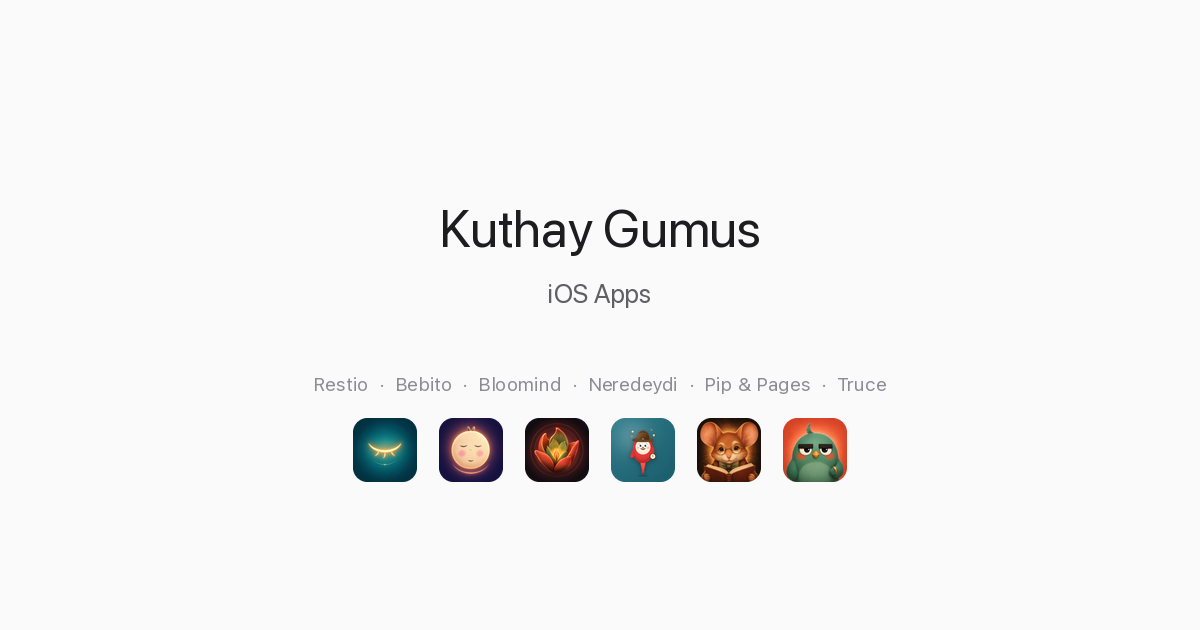
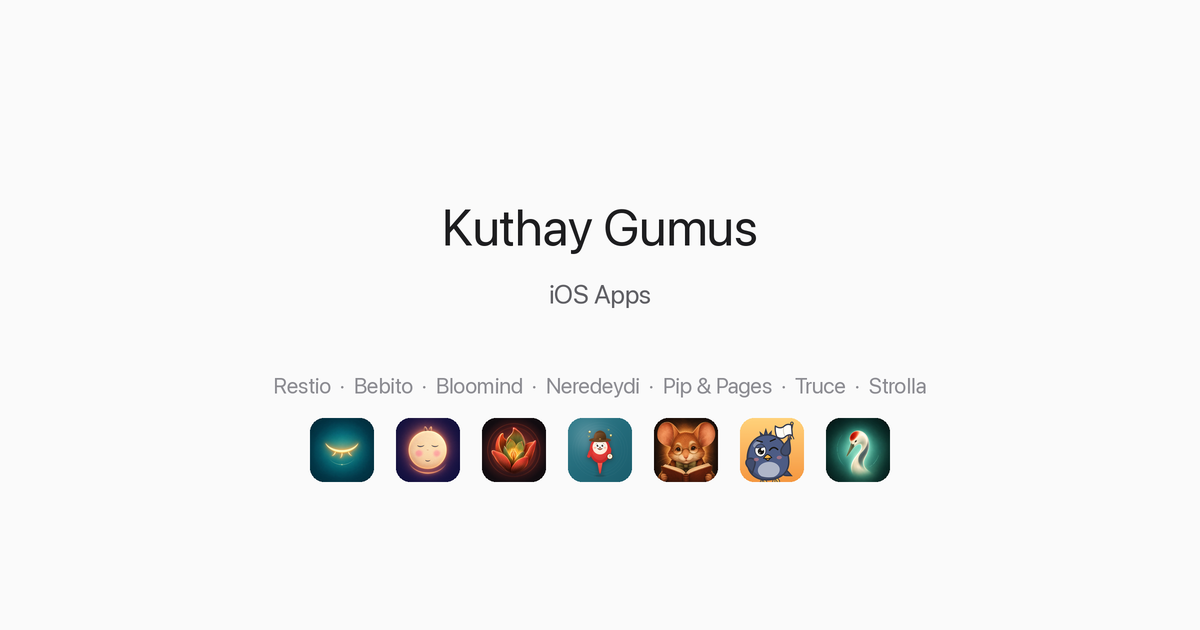
site: home page and share card show all seven live apps
Strolla went live 2026-10-01 with no card on the home page; the share card
showed six apps and Truce's pre-2.0 icon. Truce's card now describes 2.0
(both counters, optional Bicky Club, iPhone only) and every store link uses
the canonical slug. A lone seventh card is centred instead of hugging left.

diff --git a/index.html b/index.html
@@ -171,6 +171,10 @@
         footer { margin-top: auto; }
 
         /* ---- Responsive ---- */
+        @media (min-width: 761px) {
+            /* An odd card count leaves the last card alone on its row: centre it instead of hugging the left. */
+            .app-grid > .app-card:last-child:nth-child(odd) { grid-column: 1 / -1; justify-self: center; width: calc(50% - 10px); }
+        }
         @media (max-width: 760px) {
             .app-grid { grid-template-columns: 1fr; gap: 16px; }
         }
@@ -244,7 +248,7 @@
                     </a>
                     <p class="app-description">A thoughtful baby tracker that helps parents log feedings, sleep, diapers, growth, milestones, and health &mdash; all in one place. With helpful trends, widgets, and Apple Watch support. Not a medical device or medical advice.</p>
                     <div class="app-footer">
-                        <a href="https://apps.apple.com/app/bebito-baby-tracker/id6760252824" class="app-store-badge official" aria-label="Download Bebito on the App Store"><img src="/assets/app-store-badge.svg" alt="Download on the App Store" width="120" height="40"></a>
+                        <a href="https://apps.apple.com/app/bebito-baby-newborn-tracker/id6760252824" class="app-store-badge official" aria-label="Download Bebito on the App Store"><img src="/assets/app-store-badge.svg" alt="Download on the App Store" width="120" height="40"></a>
                         <nav class="app-legal" aria-label="Legal links for Bebito">
                             <a href="/bebito/privacy/">Privacy Policy</a>
                             <a href="/bebito/terms/">Terms of Use</a>
@@ -264,7 +268,7 @@
                     </a>
                     <p class="app-description">A breathing app where every session grows a living garden. 12 guided breathing techniques, mood tracking, ambient soundscapes, and a Panic Seed exercise for stressful moments &mdash; on iPhone, iPad, and Apple Watch. A wellness app, not medical care.</p>
                     <div class="app-footer">
-                        <a href="https://apps.apple.com/app/bloomind-anxiety-breathing/id6761011858" class="app-store-badge official" aria-label="Download Bloomind on the App Store"><img src="/assets/app-store-badge.svg" alt="Download on the App Store" width="120" height="40"></a>
+                        <a href="https://apps.apple.com/app/bloomind-stop-overthinking/id6761011858" class="app-store-badge official" aria-label="Download Bloomind on the App Store"><img src="/assets/app-store-badge.svg" alt="Download on the App Store" width="120" height="40"></a>
                         <nav class="app-legal" aria-label="Legal links for Bloomind">
                             <a href="/bloomind/privacy/">Privacy Policy</a>
                             <a href="/bloomind/terms/">Terms of Use</a>
@@ -284,7 +288,7 @@
                     </a>
                     <p class="app-description">A daily geography mystery and four-mode map guess game for Türkiye and the world &mdash; with streaks, a shareable emoji tile, Lock Screen widgets, Siri shortcuts, and Game Center leaderboards.</p>
                     <div class="app-footer">
-                        <a href="https://apps.apple.com/app/neredeydi-harita-tahmin-oyunu/id6763877439" class="app-store-badge official" aria-label="Download Neredeydi on the App Store"><img src="/assets/app-store-badge.svg" alt="Download on the App Store" width="120" height="40"></a>
+                        <a href="https://apps.apple.com/app/neredeydi-geography-quiz/id6763877439" class="app-store-badge official" aria-label="Download Neredeydi on the App Store"><img src="/assets/app-store-badge.svg" alt="Download on the App Store" width="120" height="40"></a>
                         <nav class="app-legal" aria-label="Legal links for Neredeydi">
                             <a href="/neredeydi/privacy/">Privacy Policy</a>
                             <a href="/neredeydi/terms/">Terms of Use</a>
@@ -322,13 +326,33 @@
                             <div class="app-tagline">Day 1. Again.</div>
                         </div>
                     </a>
-                    <p class="app-description">A funny, private little counter for the days since you last argued with your partner &mdash; usually stuck on Day 1. Reset it and Bicky, the long-suffering lovebird, reacts with a share card worth screenshotting. Private, on-device, and free to use. On iPhone &amp; iPad.</p>
+                    <p class="app-description">Counts the days you&rsquo;ve been together and the days since you last argued &mdash; a funny, private counter with Bicky, the long-suffering lovebird, and share cards worth screenshotting. On-device and free to use, with an optional Bicky Club. On iPhone.</p>
                     <div class="app-footer">
-                        <a href="https://apps.apple.com/app/truce-days-without-a-fight/id6780033643" class="app-store-badge official" aria-label="Download Truce on the App Store"><img src="/assets/app-store-badge.svg" alt="Download on the App Store" width="120" height="40"></a>
+                        <a href="https://apps.apple.com/app/truce-days-together/id6780033643" class="app-store-badge official" aria-label="Download Truce on the App Store"><img src="/assets/app-store-badge.svg" alt="Download on the App Store" width="120" height="40"></a>
                         <nav class="app-legal" aria-label="Legal links for Truce">
                             <a href="/truce/privacy/">Privacy Policy</a>
                             <a href="/truce/terms/">Terms of Use</a>
                             <a href="/truce/support/">Support</a>
+                        </nav>
+                    </div>
+                </div>
+                <div class="app-card">
+                    <a href="/strolla/" class="app-header" aria-label="Strolla — Japanese walking, coached out loud">
+                        <div class="app-icon">
+                            <img src="assets/icons/strolla.png" alt="Strolla app icon" width="72" height="72" loading="lazy">
+                        </div>
+                        <div class="app-meta">
+                            <div class="app-name">Strolla</div>
+                            <div class="app-tagline">Japanese walking, coached out loud.</div>
+                        </div>
+                    </a>
+                    <p class="app-description">Japanese interval walking, coached by voice: 3 minutes brisk, 3 minutes easy, five times. Spoken cues keep coming with your iPhone locked and your music playing. Counts your brisk minutes and, with your permission, saves walks to Apple Health. On iPhone, and Apple Watch with Premium. A walking coach, not a medical device.</p>
+                    <div class="app-footer">
+                        <a href="https://apps.apple.com/app/strolla-japanese-walking-app/id6816512312" class="app-store-badge official" aria-label="Download Strolla on the App Store"><img src="/assets/app-store-badge.svg" alt="Download on the App Store" width="120" height="40"></a>
+                        <nav class="app-legal" aria-label="Legal links for Strolla">
+                            <a href="/strolla/privacy/">Privacy Policy</a>
+                            <a href="/strolla/terms/">Terms of Use</a>
+                            <a href="/strolla/support/">Support</a>
                         </nav>
                     </div>
                 </div>
